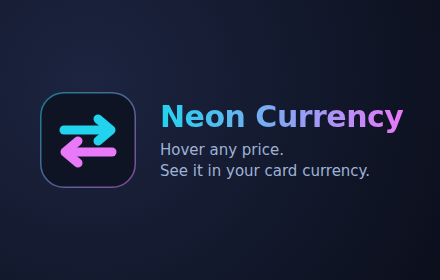
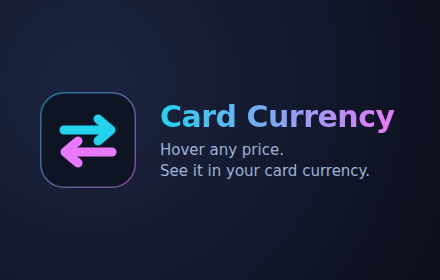
Rename extension to Card Currency Converter
Avoids the Neon trademark in the store listing. Updates manifest name,
description, UI titles, context menu entry, internal identifiers, zip
and artifact names, docs, store listing and promo tile. Version 0.3.1.

Claude-Session: https://claude.ai/code/session_014thGj4yzs8PXDbzT81AYD7

Changed region(s): [[0.3545, 0.3714, 0.9159, 0.4857]]

diff --git a/src/content/priceHover.js b/src/content/priceHover.js
@@ -2,10 +2,10 @@
 // (Mastercard rate + bank fee) for the main and quick currencies, with country flags.
 // Classic content script (no ES modules), so everything it needs lives in this file.
 (() => {
-  if (window.__neonCurrencyHover) {
+  if (window.__cardCurrencyHover) {
     return;
   }
-  window.__neonCurrencyHover = true;
+  window.__cardCurrencyHover = true;
 
   const HOVER_DELAY_MS = 350;
   const HIDE_DELAY_MS = 250;
@@ -49,7 +49,7 @@
     .footer { margin-top: 6px; font-size: 11px; color: #7d8fb3; }
   `;
 
-  const { CURRENCY_FLAGS, parsePrice: parsePriceText } = globalThis.NeonCurrencyPriceParser;
+  const { CURRENCY_FLAGS, parsePrice: parsePriceText } = globalThis.CardCurrencyPriceParser;
   const tld = location.hostname.split(".").pop();
   const quoteCache = new Map();
 
@@ -203,7 +203,7 @@
   }
 
   function createTooltip() {
-    const host = document.createElement("neon-currency-tooltip");
+    const host = document.createElement("card-currency-tooltip");
     host.style.cssText = "all: initial; position: fixed; z-index: 2147483647; top: 0; left: 0;";
     const shadow = host.attachShadow({ mode: "closed" });
     const style = document.createElement("style");

diff --git a/src/background/service-worker.js b/src/background/service-worker.js
@@ -8,11 +8,11 @@ import {
 } from "../lib/storage.js";
 import { createRequestId, uniqueList, normalizeCurrencyCode } from "../lib/utils.js";
 
-const CONTEXT_MENU_ID = "neon-currency-convert";
+const CONTEXT_MENU_ID = "card-currency-convert";
 const CONVERTER_WINDOW_SIZE = { width: 420, height: 620 };
 
 registerMastercardHeaderRules().catch((error) => {
-  console.warn("Neon Currency: could not register Mastercard header rules", error);
+  console.warn("Card Currency Converter: could not register Mastercard header rules", error);
 });
 
 chrome.runtime.onInstalled.addListener(() => {
@@ -54,7 +54,7 @@ async function ensureContextMenu() {
   }
   chrome.contextMenus.create({
     id: CONTEXT_MENU_ID,
-    title: "Convert to Neon price",
+    title: "Convert price to card currency",
     contexts: ["selection"]
   });
 }

diff --git a/src/content/priceParser.js b/src/content/priceParser.js
@@ -1,5 +1,5 @@
 // Price detection shared by the hover tooltip (content script) and the unit tests.
-// Classic script: exposes globalThis.NeonCurrencyPriceParser.
+// Classic script: exposes globalThis.CardCurrencyPriceParser.
 (() => {
   const CURRENCY_FLAGS = {
     AED: "ae", AUD: "au", BRL: "br", CAD: "ca", CHF: "ch", CNY: "cn", CZK: "cz", DKK: "dk",
@@ -80,5 +80,5 @@
     return Number.parseFloat(normalized);
   }
 
-  globalThis.NeonCurrencyPriceParser = { CURRENCY_FLAGS, parsePrice, parseAmount, resolveCurrency };
+  globalThis.CardCurrencyPriceParser = { CURRENCY_FLAGS, parsePrice, parseAmount, resolveCurrency };
 })();

diff --git a/src/popup/popup.html b/src/popup/popup.html
@@ -2,12 +2,12 @@
 <html lang="en">
   <head>
     <meta charset="utf-8" />
-    <title>Neon Currency</title>
+    <title>Card Currency Converter</title>
     <link rel="stylesheet" href="popup.css" />
   </head>
   <body>
     <header>
-      <h1>Neon Currency</h1>
+      <h1>Card Currency Converter</h1>
       <button id="settings-button" title="Open settings">⚙</button>
     </header>
     <main>

diff --git a/src/options/options.html b/src/options/options.html
@@ -2,12 +2,12 @@
 <html lang="en">
   <head>
     <meta charset="utf-8" />
-    <title>Neon Currency Settings</title>
+    <title>Card Currency Converter Settings</title>
     <link rel="stylesheet" href="options.css" />
   </head>
   <body>
     <header>
-      <h1>Neon Currency Settings</h1>
+      <h1>Card Currency Converter Settings</h1>
     </header>
     <main>
       <form id="settings-form">

diff --git a/src/converter/converter.html b/src/converter/converter.html
@@ -2,12 +2,12 @@
 <html lang="en">
   <head>
     <meta charset="utf-8" />
-    <title>Neon Currency Converter</title>
+    <title>Card Currency Converter</title>
     <link rel="stylesheet" href="converter.css" />
   </head>
   <body>
     <header>
-      <h1>Neon Currency</h1>
+      <h1>Card Currency Converter</h1>
     </header>
     <main>
       <section id="conversion-section" hidden>

diff --git a/README.md b/README.md
@@ -1,6 +1,6 @@
-# Neon Currency Converter Extension
+# Card Currency Converter
 
-Neon Currency is a Chrome extension that helps you translate prices you see online into the exchange rate that Neon (Swiss banking app) would apply. Select an amount on any web page, right-click, and the extension will fetch the latest Mastercard FX rates (no API key required) and apply your bank fee so you know the estimated amount you will be charged.
+Card Currency Converter is a Chrome extension that shows prices you see online in your card currency, using the Mastercard exchange rate applied by Mastercard card issuers such as Neon. Select an amount on any web page, right-click, and the extension will fetch the latest Mastercard FX rates (no API key required) and apply your bank fee so you know the estimated amount you will be charged.
 
 ## Core Features
 - Floating price tooltip (like Augmented Steam): hover a price on any site to see it converted into your main and quick currencies, with country flags and bank fee.
@@ -13,7 +13,7 @@ Neon Currency is a Chrome extension that helps you translate prices you see onli
 ## Project Structure
 
 ```
-Neon Currency/
+Card Currency Converter/
 ├── manifest.json
 ├── src/
 │   ├── assets/flags/         # Country flag SVGs (flag-icons, MIT)
@@ -32,7 +32,7 @@ Neon Currency/
 
 ## Loading the Extension in Chrome
 
-1. Download `neon-currency-vX.Y.Z.zip` from the [latest release](https://github.com/isikerkan/Neon-Currency/releases/latest) and extract it (or clone this repository).
+1. Download `card-currency-converter-vX.Y.Z.zip` from the [latest release](https://github.com/isikerkan/Neon-Currency/releases/latest) and extract it (or clone this repository).
 2. Open Chrome and go to `chrome://extensions`.
 3. Enable **Developer mode** (top right toggle).
 4. Click **Load unpacked** and select the extracted folder (the one containing `manifest.json`).
@@ -72,7 +72,7 @@ Open the extension popup and click the ⚙ button or visit the options page d
 - **Main currency**: the default currency you want amounts converted into (CHF by default).
 - **Quick currency shortcuts**: currencies that appear as buttons inside the popup for one-click conversions.
 - **Preferred currencies**: prioritized list used when parsing selections that contain ambiguous currency codes.
-- **Bank fee (%)**: a surcharge applied to converted amounts to simulate Neon’s markup.
+- **Bank fee (%)**: a surcharge applied to converted amounts to simulate your card issuer’s foreign-currency markup.
 - **Allow selecting conversion date**: toggles historical rate selection in the popup/converter interface.
 
 ### Mastercard Rates (no API key)
@@ -110,7 +110,7 @@ Additional behaviour:
 ## Usage Flow
 
 - **Hover tooltip**: move the mouse over a price (e.g. `$19.99`, `CHF 29.–`, `1 299,00 zł`). After ~350 ms a floating card shows the amount converted into your main and quick currencies, incl. bank fee and rate date. Hover a row for the exchange rate; `Esc` or scrolling closes it. Ambiguous symbols are resolved by the site's domain (`$` on `.ca` → CAD, `kr` on `.no` → NOK). Can be disabled in the options.
-- **Context menu conversion**: highlight a price (e.g., `€149.95`), right-click, and choose *Convert to Neon price*. A mini window opens showing the result. If the extension cannot determine the currency, you will be prompted to specify it manually.
+- **Context menu conversion**: highlight a price (e.g., `€149.95`), right-click, and choose *Convert price to card currency*. A mini window opens showing the result. If the extension cannot determine the currency, you will be prompted to specify it manually.
 - **Popup conversion**: click the extension icon, type an amount and its currency, then hit one of your quick currency buttons. Results are shown instantly inside the popup and the last conversion is persisted for reference.
 
 ## Development Notes

diff --git a/store/LISTING.md b/store/LISTING.md
@@ -16,7 +16,7 @@ Regenerate: `node scripts/render-icons.mjs`, `PW_EXPERIMENTAL_SERVICE_WORKER_NET
 **Language:** English (add German below as second locale if desired)
 
 **Summary (≤ 132 chars, from manifest):**
-Convert selected prices to Neon main currencies using the latest Mastercard exchange rates.
+Hover any price to see it in your card currency, using daily Mastercard exchange rates and your bank fee.
 
 **Description (EN):**
 
@@ -25,12 +25,12 @@ Hover any price on any website and instantly see what it costs in your card curr
 • Floating price card: move the mouse over a price like $249.99, €129,00 or CHF 29.– and a small card shows the amount in your main and favourite currencies, with country flags.
 • Mastercard rates: uses the same daily rates Mastercard applies to card payments, including the rate date.
 • Your bank fee: add your card's foreign-currency fee (e.g. 1.5 %) and see the real amount you will be charged.
-• Right-click conversion: select any text containing a price and choose "Convert to Neon price" for a detailed breakdown.
+• Right-click conversion: select any text containing a price and choose "Convert price to card currency" for a detailed breakdown.
 • Popup converter: quick manual conversions with one-click currency buttons.
 • Smart detection: recognises symbols and ISO codes, 1,234.56 / 1.234,56 / 1'234.50 formats, and resolves $ or kr by the site's country.
 • Private by design: no tracking, no analytics; only the currency pair is sent to Mastercard, never the amount or the page.
 
-Not affiliated with Mastercard or Neon Switzerland AG.
+Not affiliated with or endorsed by Mastercard.
 
 **Description (DE):**
 
@@ -43,7 +43,7 @@ Fahre über einen Preis auf einer beliebigen Website und sieh sofort, was er in 
 • Erkennt Symbole, ISO-Codes und Formate wie 1'234.50 oder 1.234,56
 • Kein Tracking; an Mastercard geht nur das Währungspaar, nie der Betrag oder die Seite
 
-Nicht mit Mastercard oder Neon Switzerland AG verbunden.
+Nicht mit Mastercard verbunden oder von Mastercard unterstützt.
 
 ## Privacy practices tab
 
@@ -54,7 +54,7 @@ Show prices found on websites converted into the user's chosen currencies using 
 
 | Permission | Justification |
 |------------|---------------|
-| `contextMenus` | Adds "Convert to Neon price" to the right-click menu for selected text. |
+| `contextMenus` | Adds "Convert price to card currency" to the right-click menu for selected text. |
 | `storage` | Stores the user's currency settings, recent conversions and cached exchange rates. |
 | `scripting` | Runs the exchange-rate request inside the Mastercard converter page when Mastercard blocks the direct request. Only injected into www.mastercard.com. |
 | `declarativeNetRequestWithHostAccess` | Sets the Referer/Origin headers of the extension's own exchange-rate requests to www.mastercard.com so they are accepted. No other requests are modified. |

diff --git a/PRIVACY.md b/PRIVACY.md
@@ -1,8 +1,8 @@
-# Privacy Policy – Neon Currency Converter
+# Privacy Policy – Card Currency Converter
 
 _Last updated: 2026-09-28_
 
-Neon Currency Converter ("the extension") converts prices shown on websites into your chosen currencies using Mastercard exchange rates. It is designed to work without collecting personal data.
+Card Currency Converter ("the extension") converts prices shown on websites into your chosen currencies using Mastercard exchange rates. It is designed to work without collecting personal data.
 
 ## What the extension processes
 
